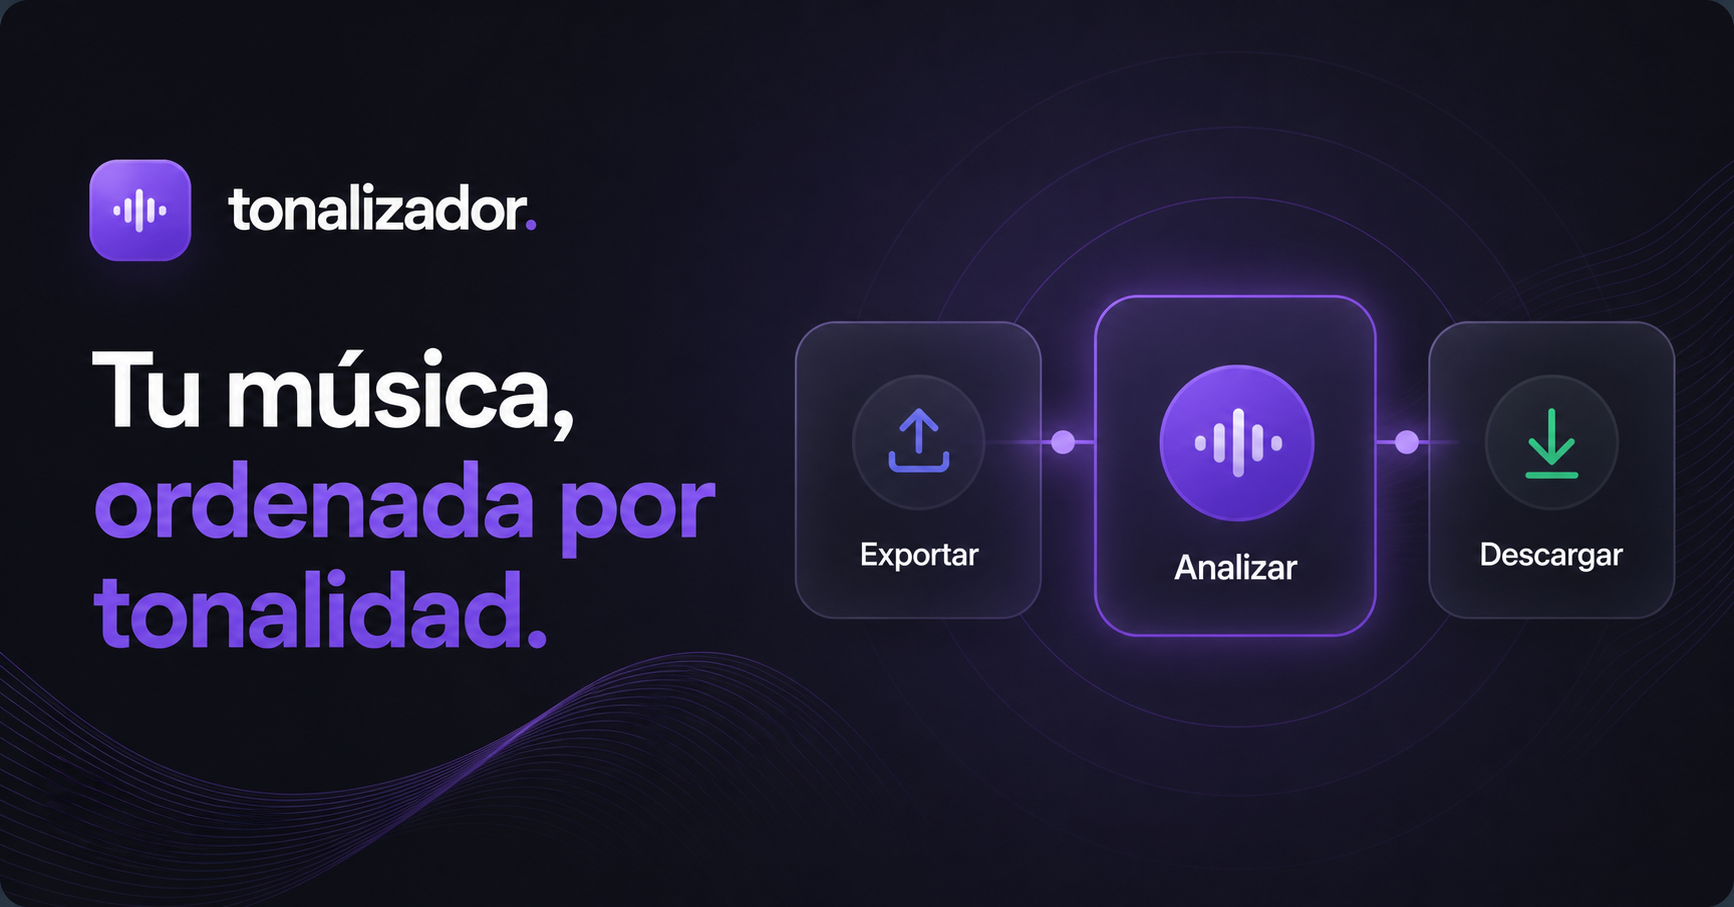
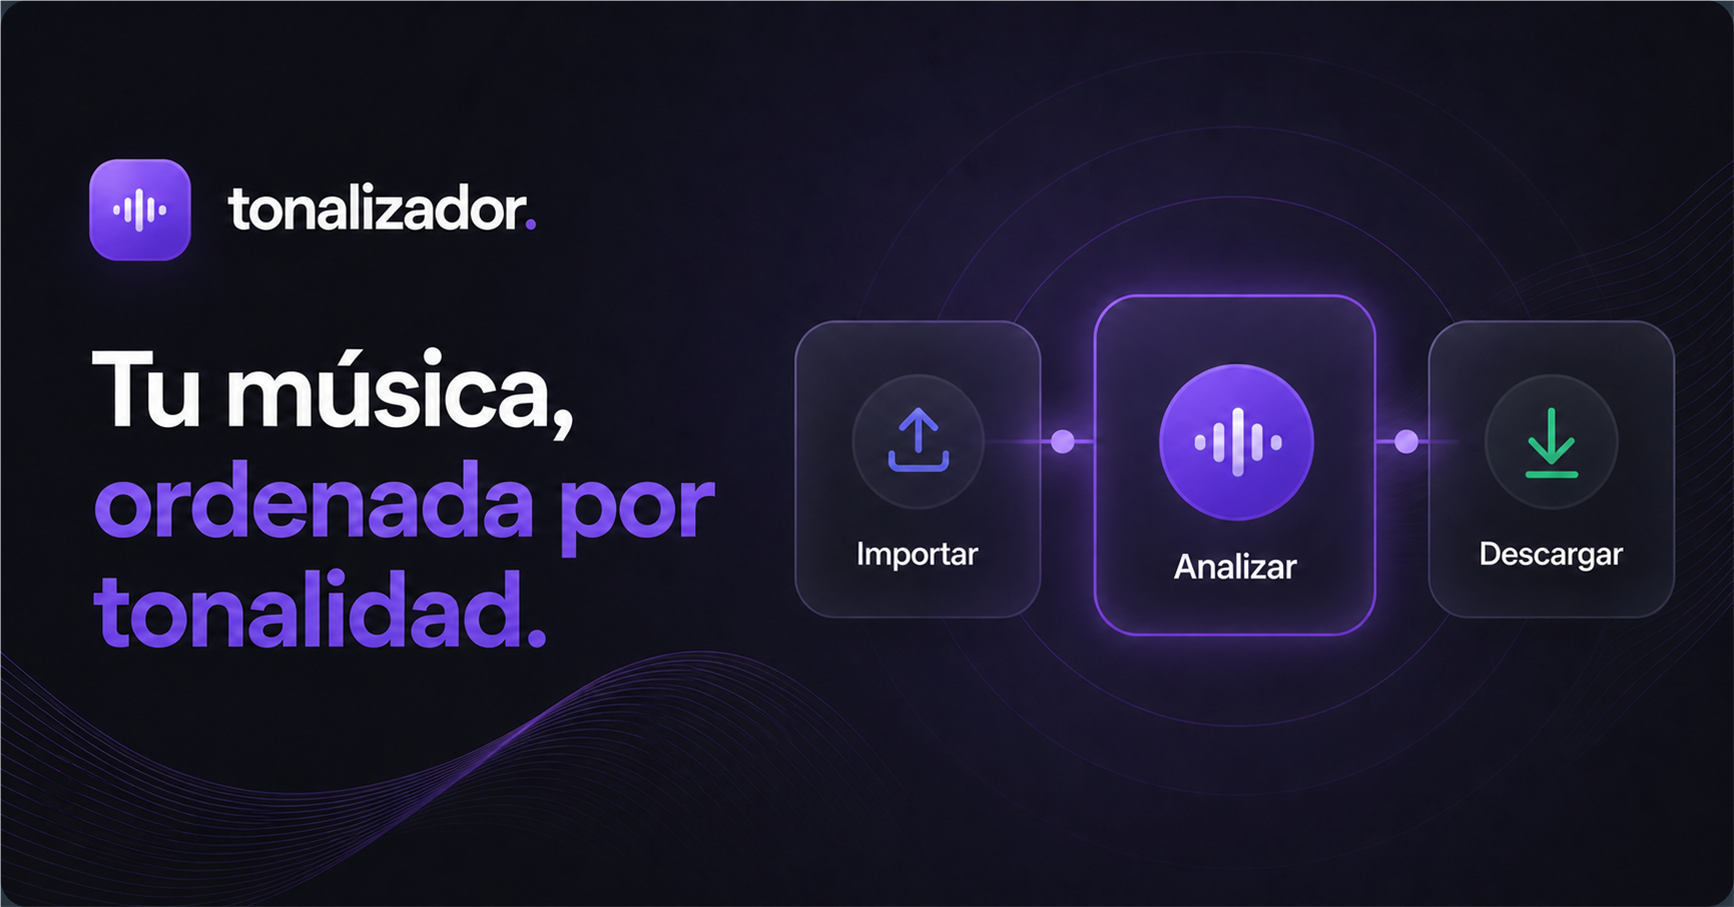
Renombra el paso a Importar

diff --git a/index.html b/index.html
@@ -23,7 +23,7 @@
     />
     <meta
       property="og:image:alt"
-      content="Tonalizador: Exportar, Analizar y Descargar"
+      content="Tonalizador: Importar, Analizar y Descargar"
     />
     <meta name="twitter:card" content="summary_large_image" />
     <meta name="theme-color" content="#0F1117" />

diff --git a/src/sections/Guide.tsx b/src/sections/Guide.tsx
@@ -23,7 +23,7 @@ type ChapterHelp = {
 
 const HELP: Record<Chapter, ChapterHelp> = {
   export: {
-    eyebrow: "Exportar",
+    eyebrow: "Importar",
     title: "Trae tus canciones",
     instructions: [
       "Pulsa «Abrir TuneMyMusic». Se abrirá otra página sin cerrar Tonalizador.",

diff --git a/src/sections/Classifier.tsx b/src/sections/Classifier.tsx
@@ -255,7 +255,7 @@ const NAV_ITEMS: Array<{
 }> = [
   {
     id: "export",
-    label: "Exportar",
+    label: "Importar",
     description: "Trae tus canciones",
     icon: FileOutput,
   },
